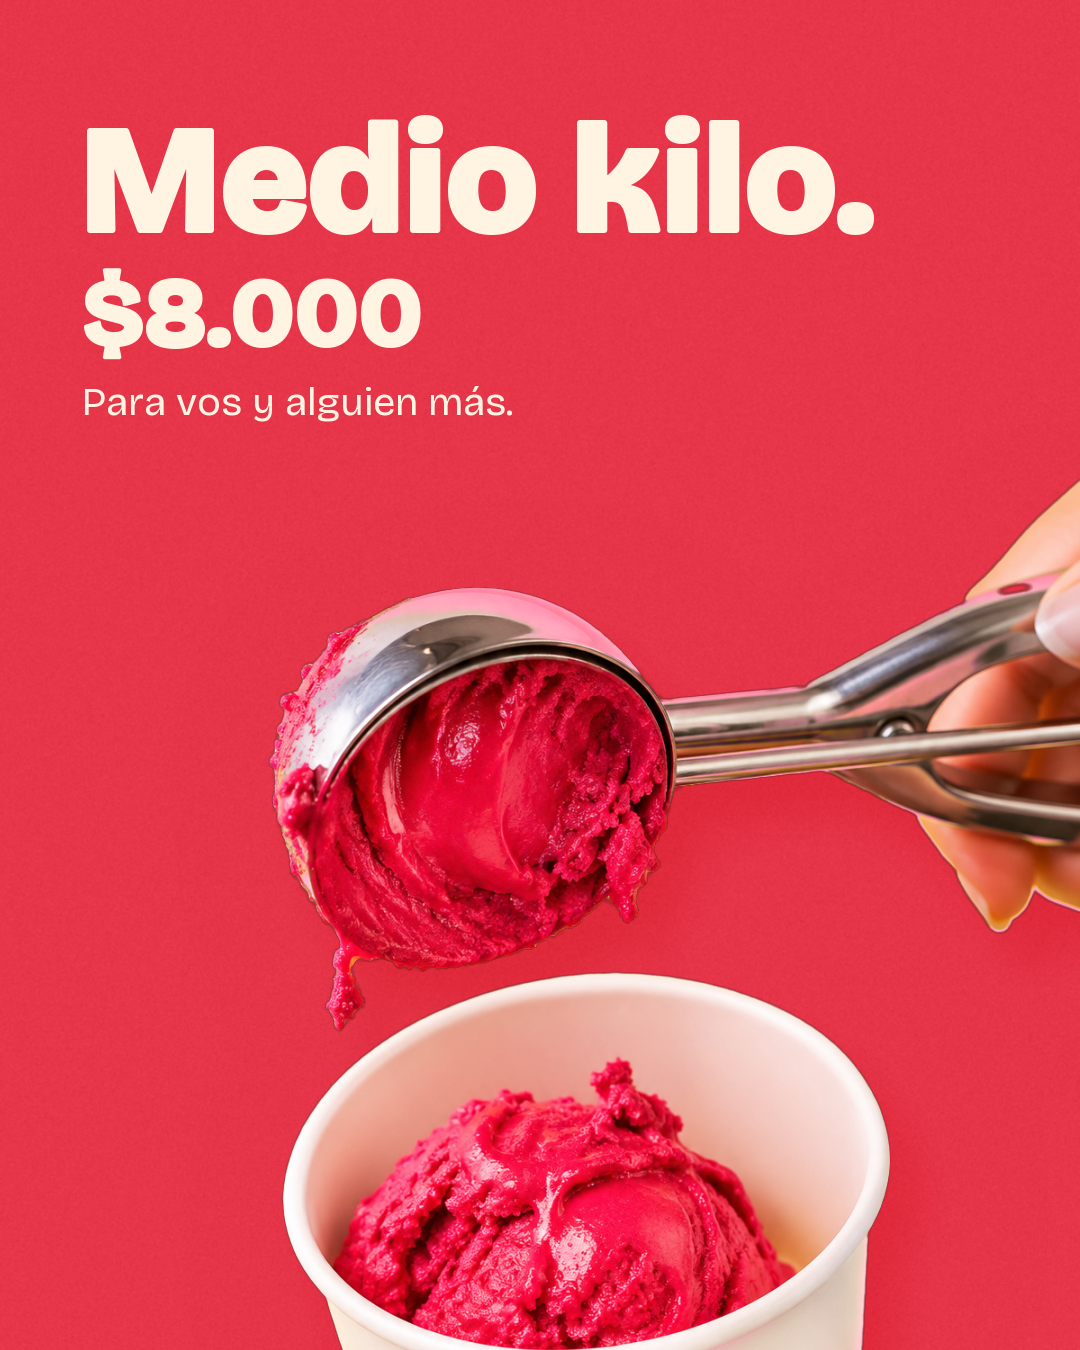
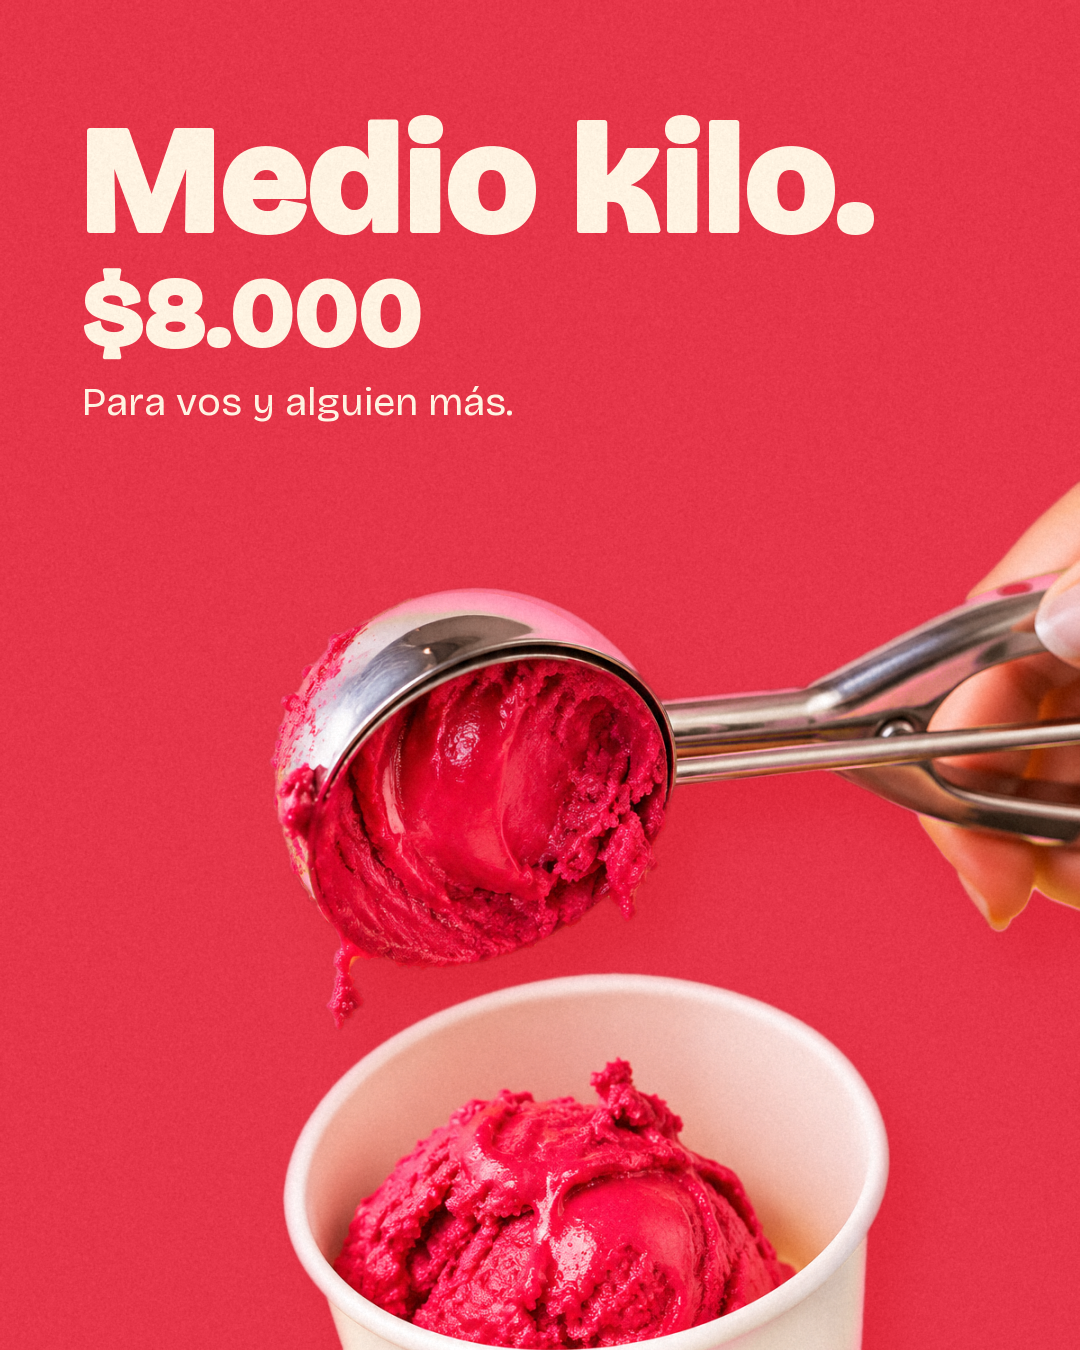
H05 2, P08 y P02 con el recorte integrado de H05 1 v3
Claude-Session: https://claude.ai/code/session_01BnyjGmmj4oiPCxjPDot2tb

diff --git a/06_Assets/fotos/herramientas/estudio2.py b/06_Assets/fotos/herramientas/estudio2.py
@@ -100,7 +100,7 @@ class Lienzo:
         # 5 · un solo grano para todo, como si fuera una sola foto
         g=cv2.GaussianBlur(np.random.default_rng(99).normal(0,1,out.shape[:2]).astype(np.float32),(0,0),0.6); g/=g.std()
         return out+g[...,None]*2.2
-    def render(s,atras=None,adelante=None,natural=False):
+    def render(s,atras=None,adelante=None,natural=True):
         base=Image.fromarray(np.clip(s.bg,0,255).astype(np.uint8)).convert('RGBA')
         if atras: atras(ImageDraw.Draw(base),base)
         b=np.asarray(base.convert('RGB')).astype(np.float32)

diff --git a/04_Contenido/registro_publicaciones.md b/04_Contenido/registro_publicaciones.md
@@ -13,3 +13,4 @@
 | 23/11/2026 17.00 | Instagram | Historia H05 2, v2 | Pedidos por WhatsApp con los dos números grandes, foto 07 apoyada con sombra | | Hecha a pedido. Rehecha en estudio rojo con letra crema. Enviado al WhatsApp de Lauti |
 | 23/11/2026 20.00 | Instagram | Carrusel P08 Achilata, sustantivo, 4 placas | Achilata. Helado de agua tucumano. Hay gelata. Se come con calor y en buena compañía. Fotos 10, 07, 14 y 32 | | Pasó de placa única a carrusel. Enviado al WhatsApp de Lauti |
 | 23/11/2026 | Instagram | Carrusel P02 El menú, v2 | Mismos textos con letra crema, fondo liso sin degradé y sombras rehechas | | Reenviado al WhatsApp de Lauti |
+| 23/11/2026 | Instagram | H05 2, P08 y P02 | Mismo diseño con el recorte integrado de H05 1 v3: sin halo, borde suave, light wrap, rebote rojo y grano parejo | | Reenviados al WhatsApp de Lauti |
